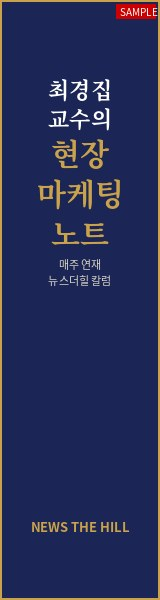
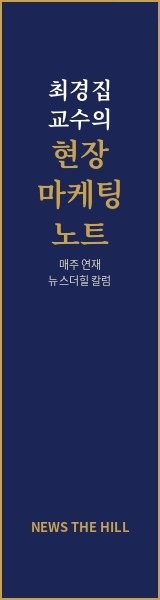
움직임 효과 검증봇 조건부 통과 반영(운영봇 경유): ① 정지 버튼 유지(WCAG 2.2.2)·테두리 없는 작은 회색 아이콘, aria-label 고정·상태는 aria-pressed ② 빨간 점 깜빡임 제거(멈춘 점) ③ 티커는 편집국·기자 기사 우선, 칼럼은 필자당 1편 ④ 오른쪽 추천 배너 SAMPLE 딱지·'샘플' 표기 제거, 빈 광고 칸 숨김. 금지어 목록 config/ticker_blocklist.txt로 분리. 공개 57편 그대로

Changed region(s): [[0.7188, 0.0, 1.0, 0.06]]

diff --git a/static/js/blankfill.js b/static/js/blankfill.js
@@ -161,10 +161,10 @@
   function fill(a, c) {
     var b = c.b, sep = b.href.indexOf("?") < 0 ? "?" : "&";
     var href = /^#/.test(b.href) ? b.href : b.href + sep + "utm_source=newsthehill&utm_medium=blankfill&utm_content=" + encodeURIComponent(b.id);
-    a.innerHTML = '<div class="bf-lab">' + (b.type === "ad" ? "광고" : "추천") + (b.sample ? " · 샘플" : "") +
+    a.innerHTML = '<div class="bf-lab">' + (b.type === "ad" ? "광고" : "추천") +
       '<button type="button" aria-label="닫기">×</button></div><a href="' + href + '"><img src="' + b.img + '" width="' + c.w + '" height="' + c.h +
-      '" alt="' + (b.advertiser || "") + " 배너" + (b.sample ? "(샘플)" : "") + '"></a>';
-    a.querySelector("button").onclick = function () { sessionStorage.setItem("nth_bf_closed", "1"); closed = true; reset(); };
+      '" alt="' + (b.advertiser || "") + " 배너" + '"></a>';
+    a.querySelector("button").onclick = function () { sessionStorage.setItem("nth_bf_closed", "1"); closed = true; run(); };
   }
 
   function reset() {
@@ -172,13 +172,17 @@
     timers.forEach(clearInterval); timers = [];
     document.documentElement.classList.remove("bf-merged");
     document.documentElement.style.removeProperty("--bf-wrap");
-    document.querySelectorAll("[data-bf-slot].filled").forEach(function (e) { e.classList.remove("filled"); });
+    document.querySelectorAll("[data-bf-slot]").forEach(function (e) { e.classList.remove("filled", "bf-empty"); });
     state.merged = false; state.placed = [];
+  }
+
+  function hideEmptySlots() {
+    document.querySelectorAll("[data-bf-slot]").forEach(function (e) { e.classList.toggle("bf-empty", !e.classList.contains("filled")); });
   }
 
   function run() {
     reset();
-    if (closed || !cfg) return;
+    if (closed || !cfg) { hideEmptySlots(); return; }
     window.__bfUsed = {};
     var narrow = window.innerWidth < 1024;                    // 모바일: 여백 줄기 없음 → 본문 예약칸만
     var blanks = scan(measure());
@@ -193,6 +197,7 @@
       d.style.cssText = "position:absolute;left:" + b.x + "px;top:" + b.y + "px;width:" + b.w + "px;height:" + b.h + "px;outline:2px dashed " + (b.small ? "#c00" : "#090") + ";pointer-events:none";
       document.body.appendChild(d); slots.push(d);
     });
+    hideEmptySlots();
     log("placed", JSON.stringify(state.placed));
   }
 
@@ -216,7 +221,7 @@
       window.addEventListener("resize", later);
       window.addEventListener("load", later);
       document.querySelectorAll("main img").forEach(function (i) { if (!i.complete) i.addEventListener("load", later, { once: true }); });
-    }).catch(function (e) { log("config error", e); });
+    }).catch(function (e) { log("config error", e); run(); });
   }
   if (document.readyState === "loading") document.addEventListener("DOMContentLoaded", start); else start();
 })();

diff --git a/static/css/motion.css b/static/css/motion.css
@@ -6,12 +6,12 @@
 .ticker li{height:var(--tk-height);line-height:var(--tk-height)}
 .ticker li a{display:block;overflow:hidden;text-overflow:ellipsis;white-space:nowrap}
 .ticker .tk-t{color:var(--meta);font-size:12px;margin-right:8px;font-variant-numeric:tabular-nums}
-.ticker b::before{content:"";display:inline-block;width:6px;height:6px;margin-right:6px;border-radius:50%;background:var(--red);vertical-align:middle;animation:tk-dot 2.4s ease-in-out infinite}
-.ticker .tk-toggle{display:none;flex:none;width:28px;height:26px;margin-left:8px;padding:0;border:1px solid var(--ln);background:#fff;color:var(--t2);font:11px var(--sans);cursor:pointer}
+.ticker b::before{content:"";display:inline-block;width:6px;height:6px;margin-right:6px;border-radius:50%;background:var(--red);vertical-align:middle}
+.ticker .tk-toggle{display:none;flex:none;width:22px;height:22px;margin-left:8px;padding:0;border:0;background:transparent;color:#999;font:10px var(--sans);cursor:pointer}
+.ticker .tk-toggle:hover,.ticker .tk-toggle:focus-visible{color:#666}
 .tk-js .ticker .tk-toggle{display:block}
 .ticker .tk-toggle[hidden]{display:none}
 .ticker a:focus-visible,.ticker .tk-toggle:focus-visible{outline:2px solid var(--g);outline-offset:-2px}
-@keyframes tk-dot{0%,100%{opacity:1}50%{opacity:.25}}
 @media(max-width:767px){
  .ticker{display:block;--tk-height:34px}
  .ticker .wrap{height:34px}
@@ -21,6 +21,5 @@
 @media(max-width:480px){.ticker .tk-t{display:none}}
 @media(prefers-reduced-motion:reduce){
  .tk-js .ticker ul{transition:none}
- .ticker b::before{animation:none}
  .tk-js .ticker .tk-toggle{display:none}
 }

diff --git a/static/style.css b/static/style.css
@@ -76,6 +76,7 @@ main.wrap{padding-top:20px;padding-bottom:34px}
 .rank a{display:-webkit-box;-webkit-line-clamp:2;-webkit-box-orient:vertical;overflow:hidden}
 .adslot{width:300px;height:250px;margin:0 auto;position:relative}
 .adslot.filled{height:auto}
+.adslot.bf-empty{display:none}
 .cbox li{border-bottom:1px solid var(--ln2);padding:10px 0}.cbox li a{display:grid;grid-template-columns:56px 1fr;column-gap:12px}
 .cph{grid-row:span 2;width:56px;height:56px;border-radius:50%;overflow:hidden}.cph img{width:100%;height:100%;object-fit:cover}
 .cbox b{font-size:12px;color:var(--g);font-weight:600}.cbox .ct{font:700 14.5px/1.4 var(--serif);display:-webkit-box;-webkit-line-clamp:2;-webkit-box-orient:vertical;overflow:hidden}

diff --git a/static/js/ticker.js b/static/js/ticker.js
@@ -69,8 +69,7 @@
   region.addEventListener('focusout', function () { window.setTimeout(schedule, 0); });
   button.addEventListener('click', function () {
     paused = !paused;
-    button.textContent = paused ? '▶' : '❚❚';
-    button.setAttribute('aria-label', '최신 기사 자동 넘김 ' + (paused ? '재생' : '정지'));
+    button.querySelector('span').textContent = paused ? '▶' : '❚❚';
     button.setAttribute('aria-pressed', String(paused));
     schedule();
   });

diff --git a/build.py b/build.py
@@ -100,9 +100,29 @@ def today():
 
 LOGO = """<a class="logo" href="/" aria-label="뉴스더힐 홈"><!-- 원본 로고: 교수님 제공(2026-10-17 12:52 KST 채팅 첨부), 크롭본 static/logo/newsthehill-logo.jpg / 원본 newsthehill-logo-original.jpg --><img src="/static/logo/newsthehill-logo.jpg" alt="NEWS THE HILL 뉴스더힐" width="1058" height="237"></a>"""
 
+def load_ticker_blocklist():
+    try:
+        lines = (ROOT / "config" / "ticker_blocklist.txt").read_text(encoding="utf-8").splitlines()
+    except FileNotFoundError:
+        return ["낭만클럽", "낭만호랑", "더에이블", "광고"]
+    return [line for raw in lines if (line := raw.strip()) and not line.startswith("#")]
+
+def ticker_pick(arts):
+    blocklist = load_ticker_blocklist()
+    news, opinions, authors = [], [], set()
+    for a in arts:
+        if any(word in a["title"] for word in blocklist):
+            continue
+        if a["column"] is False and a["section"] != "opinion":
+            news.append(a)
+        elif a.get("author") not in authors:
+            opinions.append(a)
+            authors.add(a.get("author"))
+    return (news + opinions)[:6]
+
 def header(active, arts):
     menu = "".join(f'<a href="/section/{k}/"{" class=on" if k == active else ""}>{v}</a>' for k, v in SECTIONS.items())
-    ticker_arts = [a for a in arts if not any(word in a["title"] for word in ("낭만클럽", "낭만호랑", "더에이블", "광고"))][:6]
+    ticker_arts = ticker_pick(arts)
     tick = "".join(
         f'<li{' aria-hidden="true"' if i else ""}><a href="{esc(a["url"])}"{' tabindex="-1" aria-hidden="true"' if i else ""}>'
         f'<span class="tk-t">{a["dt"]:%m.%d}{esc(" " + a["time"]) if a.get("time") else ""}</span> {esc(a["title"])}</a></li>'
@@ -116,7 +136,7 @@ def header(active, arts):
 <button class="ham" type="button" aria-label="전체메뉴"><svg viewBox="0 0 20 20" width="20" height="20"><path d="M2 5h16M2 10h16M2 15h16" stroke="currentColor" stroke-width="2"/></svg></button></div>
 </div></div>
 <nav class="gnb" aria-label="주메뉴"><div class="wrap">{menu}</div></nav>
-<div class="ticker" role="region" aria-label="최신 기사"><div class="wrap"><b>최신</b><div class="tk-window"><ul id="tick" aria-live="off">{tick}</ul></div><button class="tk-toggle" type="button" aria-label="최신 기사 자동 넘김 정지" aria-pressed="false">❚❚</button></div></div>
+<div class="ticker" role="region" aria-label="최신 기사"><div class="wrap"><b>최신</b><div class="tk-window"><ul id="tick" aria-live="off">{tick}</ul></div><button class="tk-toggle" type="button" aria-label="최신 기사 자동 넘김 일시정지/재생" aria-pressed="false" title="자동 넘김 일시정지/재생"><span aria-hidden="true">❚❚</span></button></div></div>
 </header>"""
 
 FOOTER = f"""<footer class="foot">
